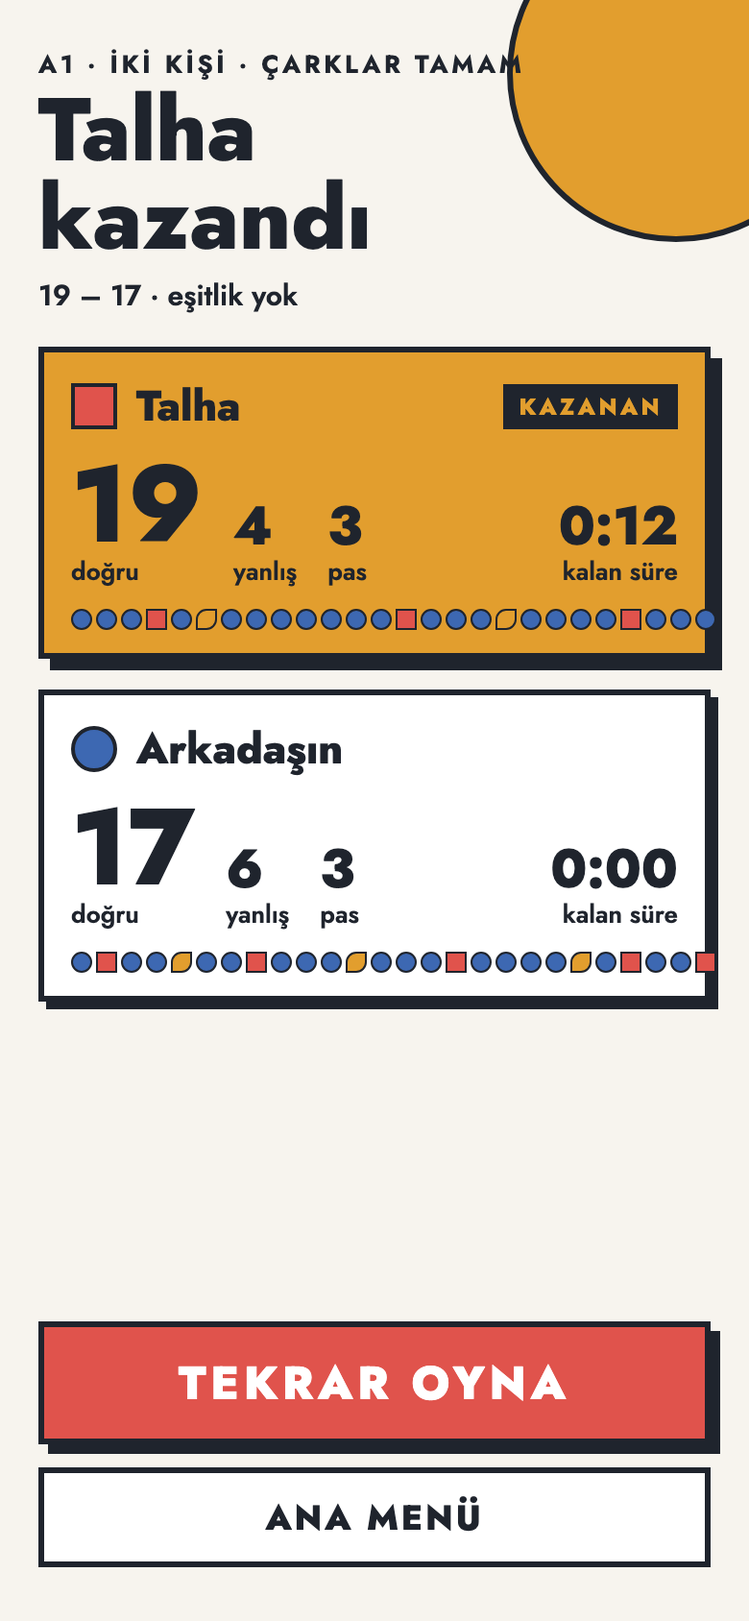
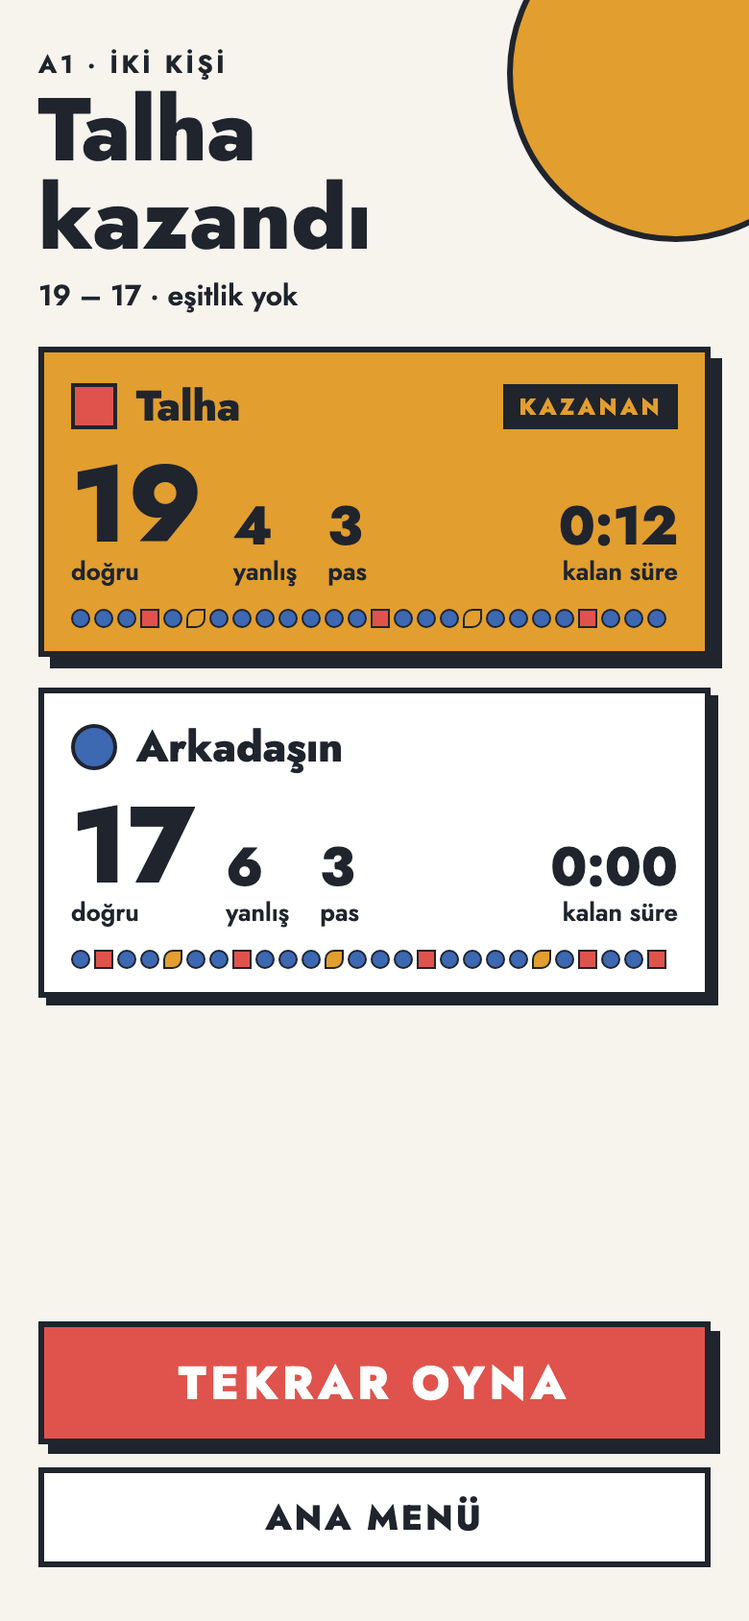
docs(design): fit the duel result outcome strips

diff --git a/docs/design/screens/20-duel-result.html b/docs/design/screens/20-duel-result.html
@@ -7,20 +7,20 @@
 body{margin:0}</style></head><body>
 <div style="position:relative;width:390px;height:844px;box-sizing:border-box;padding:24px 20px 28px;background:#F7F4EE;color:#1F242D;font-family:Jost,sans-serif;display:flex;flex-direction:column;gap:16px;overflow:hidden">
 <div aria-hidden="true" style="position:absolute;right:-50px;top:-50px;width:170px;height:170px;border-radius:50%;background:#E29E2E;border:3px solid #1F242D"></div>
-<div style="position:relative;display:flex;flex-direction:column;gap:2px"><span style="font-weight:700;font-size:13px;letter-spacing:.14em;">A1 · İKİ KİŞİ · ÇARKLAR TAMAM</span><span style="font-weight:800;font-size:46px;line-height:1">Talha<br>kazandı</span>
+<div style="position:relative;display:flex;flex-direction:column;gap:2px"><span style="font-weight:700;font-size:13px;letter-spacing:.14em;">A1 · İKİ KİŞİ</span><span style="font-weight:800;font-size:46px;line-height:1">Talha<br>kazandı</span>
 <span style="font-weight:600;font-size:15px;margin-top:4px">19 – 17 · eşitlik yok</span></div>
 <div style="position:relative;border:3px solid #1F242D;background:#E29E2E;box-shadow:6px 6px 0 #1F242D;padding:12px 14px;display:flex;flex-direction:column;gap:10px">
  <div style="display:flex;align-items:center;gap:10px"><div aria-hidden="true" style="width:24px;height:24px;flex-shrink:0;box-sizing:border-box;border-radius:0;background:#E0534C;border:2px solid #1F242D"></div><span style="font-weight:800;font-size:22px;flex:1">Talha</span><span style="font-weight:800;font-size:12px;letter-spacing:.14em;background:#1F242D;color:#E29E2E;padding:3px 8px">KAZANAN</span></div>
  <div style="display:flex;align-items:flex-end;gap:16px"><div style="display:flex;flex-direction:column"><span style="font-weight:800;font-size:56px;line-height:.9">19</span><span style="font-weight:600;font-size:13px">doğru</span></div>
  <div style="display:flex;flex-direction:column"><span style="font-weight:800;font-size:28px;line-height:1">4</span><span style="font-weight:600;font-size:13px">yanlış</span></div>
  <div style="display:flex;flex-direction:column"><span style="font-weight:800;font-size:28px;line-height:1">3</span><span style="font-weight:600;font-size:13px">pas</span></div>
- <div style="display:flex;flex-direction:column;margin-left:auto;align-items:flex-end"><span style="font-weight:800;font-size:28px;line-height:1">0:12</span><span style="font-weight:600;font-size:13px">kalan süre</span></div></div><div style="display:flex;gap:2px;flex-wrap:nowrap"><div aria-hidden="true" style="width:11px;height:11px;flex-shrink:0;box-sizing:border-box;border-radius:50%;background:#3D68B2;border:1px solid #1F242D"></div><div aria-hidden="true" style="width:11px;height:11px;flex-shrink:0;box-sizing:border-box;border-radius:50%;background:#3D68B2;border:1px solid #1F242D"></div><div aria-hidden="true" style="width:11px;height:11px;flex-shrink:0;box-sizing:border-box;border-radius:50%;background:#3D68B2;border:1px solid #1F242D"></div><div aria-hidden="true" style="width:11px;height:11px;flex-shrink:0;box-sizing:border-box;border-radius:0;background:#E0534C;border:1px solid #1F242D"></div><div aria-hidden="true" style="width:11px;height:11px;flex-shrink:0;box-sizing:border-box;border-radius:50%;background:#3D68B2;border:1px solid #1F242D"></div><div aria-hidden="true" style="width:11px;height:11px;flex-shrink:0;box-sizing:border-box;border-radius:50% 0 50% 0;background:#E29E2E;border:1px solid #1F242D"></div><div aria-hidden="true" style="width:11px;height:11px;flex-shrink:0;box-sizing:border-box;border-radius:50%;background:#3D68B2;border:1px solid #1F242D"></div><div aria-hidden="true" style="width:11px;height:11px;flex-shrink:0;box-sizing:border-box;border-radius:50%;background:#3D68B2;border:1px solid #1F242D"></div><div aria-hidden="true" style="width:11px;height:11px;flex-shrink:0;box-sizing:border-box;border-radius:50%;background:#3D68B2;border:1px solid #1F242D"></div><div aria-hidden="true" style="width:11px;height:11px;flex-shrink:0;box-sizing:border-box;border-radius:50%;background:#3D68B2;border:1px solid #1F242D"></div><div aria-hidden="true" style="width:11px;height:11px;flex-shrink:0;box-sizing:border-box;border-radius:50%;background:#3D68B2;border:1px solid #1F242D"></div><div aria-hidden="true" style="width:11px;height:11px;flex-shrink:0;box-sizing:border-box;border-radius:50%;background:#3D68B2;border:1px solid #1F242D"></div><div aria-hidden="true" style="width:11px;height:11px;flex-shrink:0;box-sizing:border-box;border-radius:50%;background:#3D68B2;border:1px solid #1F242D"></div><div aria-hidden="true" style="width:11px;height:11px;flex-shrink:0;box-sizing:border-box;border-radius:0;background:#E0534C;border:1px solid #1F242D"></div><div aria-hidden="true" style="width:11px;height:11px;flex-shrink:0;box-sizing:border-box;border-radius:50%;background:#3D68B2;border:1px solid #1F242D"></div><div aria-hidden="true" style="width:11px;height:11px;flex-shrink:0;box-sizing:border-box;border-radius:50%;background:#3D68B2;border:1px solid #1F242D"></div><div aria-hidden="true" style="width:11px;height:11px;flex-shrink:0;box-sizing:border-box;border-radius:50%;background:#3D68B2;border:1px solid #1F242D"></div><div aria-hidden="true" style="width:11px;height:11px;flex-shrink:0;box-sizing:border-box;border-radius:50% 0 50% 0;background:#E29E2E;border:1px solid #1F242D"></div><div aria-hidden="true" style="width:11px;height:11px;flex-shrink:0;box-sizing:border-box;border-radius:50%;background:#3D68B2;border:1px solid #1F242D"></div><div aria-hidden="true" style="width:11px;height:11px;flex-shrink:0;box-sizing:border-box;border-radius:50%;background:#3D68B2;border:1px solid #1F242D"></div><div aria-hidden="true" style="width:11px;height:11px;flex-shrink:0;box-sizing:border-box;border-radius:50%;background:#3D68B2;border:1px solid #1F242D"></div><div aria-hidden="true" style="width:11px;height:11px;flex-shrink:0;box-sizing:border-box;border-radius:50%;background:#3D68B2;border:1px solid #1F242D"></div><div aria-hidden="true" style="width:11px;height:11px;flex-shrink:0;box-sizing:border-box;border-radius:0;background:#E0534C;border:1px solid #1F242D"></div><div aria-hidden="true" style="width:11px;height:11px;flex-shrink:0;box-sizing:border-box;border-radius:50%;background:#3D68B2;border:1px solid #1F242D"></div><div aria-hidden="true" style="width:11px;height:11px;flex-shrink:0;box-sizing:border-box;border-radius:50%;background:#3D68B2;border:1px solid #1F242D"></div><div aria-hidden="true" style="width:11px;height:11px;flex-shrink:0;box-sizing:border-box;border-radius:50%;background:#3D68B2;border:1px solid #1F242D"></div></div></div>
+ <div style="display:flex;flex-direction:column;margin-left:auto;align-items:flex-end"><span style="font-weight:800;font-size:28px;line-height:1">0:12</span><span style="font-weight:600;font-size:13px">kalan süre</span></div></div><div style="display:flex;gap:2px;flex-wrap:nowrap"><div aria-hidden="true" style="width:10px;height:10px;flex-shrink:0;box-sizing:border-box;border-radius:50%;background:#3D68B2;border:1px solid #1F242D"></div><div aria-hidden="true" style="width:10px;height:10px;flex-shrink:0;box-sizing:border-box;border-radius:50%;background:#3D68B2;border:1px solid #1F242D"></div><div aria-hidden="true" style="width:10px;height:10px;flex-shrink:0;box-sizing:border-box;border-radius:50%;background:#3D68B2;border:1px solid #1F242D"></div><div aria-hidden="true" style="width:10px;height:10px;flex-shrink:0;box-sizing:border-box;border-radius:0;background:#E0534C;border:1px solid #1F242D"></div><div aria-hidden="true" style="width:10px;height:10px;flex-shrink:0;box-sizing:border-box;border-radius:50%;background:#3D68B2;border:1px solid #1F242D"></div><div aria-hidden="true" style="width:10px;height:10px;flex-shrink:0;box-sizing:border-box;border-radius:50% 0 50% 0;background:#E29E2E;border:1px solid #1F242D"></div><div aria-hidden="true" style="width:10px;height:10px;flex-shrink:0;box-sizing:border-box;border-radius:50%;background:#3D68B2;border:1px solid #1F242D"></div><div aria-hidden="true" style="width:10px;height:10px;flex-shrink:0;box-sizing:border-box;border-radius:50%;background:#3D68B2;border:1px solid #1F242D"></div><div aria-hidden="true" style="width:10px;height:10px;flex-shrink:0;box-sizing:border-box;border-radius:50%;background:#3D68B2;border:1px solid #1F242D"></div><div aria-hidden="true" style="width:10px;height:10px;flex-shrink:0;box-sizing:border-box;border-radius:50%;background:#3D68B2;border:1px solid #1F242D"></div><div aria-hidden="true" style="width:10px;height:10px;flex-shrink:0;box-sizing:border-box;border-radius:50%;background:#3D68B2;border:1px solid #1F242D"></div><div aria-hidden="true" style="width:10px;height:10px;flex-shrink:0;box-sizing:border-box;border-radius:50%;background:#3D68B2;border:1px solid #1F242D"></div><div aria-hidden="true" style="width:10px;height:10px;flex-shrink:0;box-sizing:border-box;border-radius:50%;background:#3D68B2;border:1px solid #1F242D"></div><div aria-hidden="true" style="width:10px;height:10px;flex-shrink:0;box-sizing:border-box;border-radius:0;background:#E0534C;border:1px solid #1F242D"></div><div aria-hidden="true" style="width:10px;height:10px;flex-shrink:0;box-sizing:border-box;border-radius:50%;background:#3D68B2;border:1px solid #1F242D"></div><div aria-hidden="true" style="width:10px;height:10px;flex-shrink:0;box-sizing:border-box;border-radius:50%;background:#3D68B2;border:1px solid #1F242D"></div><div aria-hidden="true" style="width:10px;height:10px;flex-shrink:0;box-sizing:border-box;border-radius:50%;background:#3D68B2;border:1px solid #1F242D"></div><div aria-hidden="true" style="width:10px;height:10px;flex-shrink:0;box-sizing:border-box;border-radius:50% 0 50% 0;background:#E29E2E;border:1px solid #1F242D"></div><div aria-hidden="true" style="width:10px;height:10px;flex-shrink:0;box-sizing:border-box;border-radius:50%;background:#3D68B2;border:1px solid #1F242D"></div><div aria-hidden="true" style="width:10px;height:10px;flex-shrink:0;box-sizing:border-box;border-radius:50%;background:#3D68B2;border:1px solid #1F242D"></div><div aria-hidden="true" style="width:10px;height:10px;flex-shrink:0;box-sizing:border-box;border-radius:50%;background:#3D68B2;border:1px solid #1F242D"></div><div aria-hidden="true" style="width:10px;height:10px;flex-shrink:0;box-sizing:border-box;border-radius:50%;background:#3D68B2;border:1px solid #1F242D"></div><div aria-hidden="true" style="width:10px;height:10px;flex-shrink:0;box-sizing:border-box;border-radius:0;background:#E0534C;border:1px solid #1F242D"></div><div aria-hidden="true" style="width:10px;height:10px;flex-shrink:0;box-sizing:border-box;border-radius:50%;background:#3D68B2;border:1px solid #1F242D"></div><div aria-hidden="true" style="width:10px;height:10px;flex-shrink:0;box-sizing:border-box;border-radius:50%;background:#3D68B2;border:1px solid #1F242D"></div><div aria-hidden="true" style="width:10px;height:10px;flex-shrink:0;box-sizing:border-box;border-radius:50%;background:#3D68B2;border:1px solid #1F242D"></div></div></div>
 <div style="position:relative;border:3px solid #1F242D;background:#fff;box-shadow:4px 4px 0 #1F242D;padding:12px 14px;display:flex;flex-direction:column;gap:10px">
  <div style="display:flex;align-items:center;gap:10px"><div aria-hidden="true" style="width:24px;height:24px;flex-shrink:0;box-sizing:border-box;border-radius:50%;background:#3D68B2;border:2px solid #1F242D"></div><span style="font-weight:800;font-size:22px;flex:1">Arkadaşın</span></div>
  <div style="display:flex;align-items:flex-end;gap:16px"><div style="display:flex;flex-direction:column"><span style="font-weight:800;font-size:56px;line-height:.9">17</span><span style="font-weight:600;font-size:13px">doğru</span></div>
  <div style="display:flex;flex-direction:column"><span style="font-weight:800;font-size:28px;line-height:1">6</span><span style="font-weight:600;font-size:13px">yanlış</span></div>
  <div style="display:flex;flex-direction:column"><span style="font-weight:800;font-size:28px;line-height:1">3</span><span style="font-weight:600;font-size:13px">pas</span></div>
- <div style="display:flex;flex-direction:column;margin-left:auto;align-items:flex-end"><span style="font-weight:800;font-size:28px;line-height:1">0:00</span><span style="font-weight:600;font-size:13px">kalan süre</span></div></div><div style="display:flex;gap:2px;flex-wrap:nowrap"><div aria-hidden="true" style="width:11px;height:11px;flex-shrink:0;box-sizing:border-box;border-radius:50%;background:#3D68B2;border:1px solid #1F242D"></div><div aria-hidden="true" style="width:11px;height:11px;flex-shrink:0;box-sizing:border-box;border-radius:0;background:#E0534C;border:1px solid #1F242D"></div><div aria-hidden="true" style="width:11px;height:11px;flex-shrink:0;box-sizing:border-box;border-radius:50%;background:#3D68B2;border:1px solid #1F242D"></div><div aria-hidden="true" style="width:11px;height:11px;flex-shrink:0;box-sizing:border-box;border-radius:50%;background:#3D68B2;border:1px solid #1F242D"></div><div aria-hidden="true" style="width:11px;height:11px;flex-shrink:0;box-sizing:border-box;border-radius:50% 0 50% 0;background:#E29E2E;border:1px solid #1F242D"></div><div aria-hidden="true" style="width:11px;height:11px;flex-shrink:0;box-sizing:border-box;border-radius:50%;background:#3D68B2;border:1px solid #1F242D"></div><div aria-hidden="true" style="width:11px;height:11px;flex-shrink:0;box-sizing:border-box;border-radius:50%;background:#3D68B2;border:1px solid #1F242D"></div><div aria-hidden="true" style="width:11px;height:11px;flex-shrink:0;box-sizing:border-box;border-radius:0;background:#E0534C;border:1px solid #1F242D"></div><div aria-hidden="true" style="width:11px;height:11px;flex-shrink:0;box-sizing:border-box;border-radius:50%;background:#3D68B2;border:1px solid #1F242D"></div><div aria-hidden="true" style="width:11px;height:11px;flex-shrink:0;box-sizing:border-box;border-radius:50%;background:#3D68B2;border:1px solid #1F242D"></div><div aria-hidden="true" style="width:11px;height:11px;flex-shrink:0;box-sizing:border-box;border-radius:50%;background:#3D68B2;border:1px solid #1F242D"></div><div aria-hidden="true" style="width:11px;height:11px;flex-shrink:0;box-sizing:border-box;border-radius:50% 0 50% 0;background:#E29E2E;border:1px solid #1F242D"></div><div aria-hidden="true" style="width:11px;height:11px;flex-shrink:0;box-sizing:border-box;border-radius:50%;background:#3D68B2;border:1px solid #1F242D"></div><div aria-hidden="true" style="width:11px;height:11px;flex-shrink:0;box-sizing:border-box;border-radius:50%;background:#3D68B2;border:1px solid #1F242D"></div><div aria-hidden="true" style="width:11px;height:11px;flex-shrink:0;box-sizing:border-box;border-radius:50%;background:#3D68B2;border:1px solid #1F242D"></div><div aria-hidden="true" style="width:11px;height:11px;flex-shrink:0;box-sizing:border-box;border-radius:0;background:#E0534C;border:1px solid #1F242D"></div><div aria-hidden="true" style="width:11px;height:11px;flex-shrink:0;box-sizing:border-box;border-radius:50%;background:#3D68B2;border:1px solid #1F242D"></div><div aria-hidden="true" style="width:11px;height:11px;flex-shrink:0;box-sizing:border-box;border-radius:50%;background:#3D68B2;border:1px solid #1F242D"></div><div aria-hidden="true" style="width:11px;height:11px;flex-shrink:0;box-sizing:border-box;border-radius:50%;background:#3D68B2;border:1px solid #1F242D"></div><div aria-hidden="true" style="width:11px;height:11px;flex-shrink:0;box-sizing:border-box;border-radius:50%;background:#3D68B2;border:1px solid #1F242D"></div><div aria-hidden="true" style="width:11px;height:11px;flex-shrink:0;box-sizing:border-box;border-radius:50% 0 50% 0;background:#E29E2E;border:1px solid #1F242D"></div><div aria-hidden="true" style="width:11px;height:11px;flex-shrink:0;box-sizing:border-box;border-radius:50%;background:#3D68B2;border:1px solid #1F242D"></div><div aria-hidden="true" style="width:11px;height:11px;flex-shrink:0;box-sizing:border-box;border-radius:0;background:#E0534C;border:1px solid #1F242D"></div><div aria-hidden="true" style="width:11px;height:11px;flex-shrink:0;box-sizing:border-box;border-radius:50%;background:#3D68B2;border:1px solid #1F242D"></div><div aria-hidden="true" style="width:11px;height:11px;flex-shrink:0;box-sizing:border-box;border-radius:50%;background:#3D68B2;border:1px solid #1F242D"></div><div aria-hidden="true" style="width:11px;height:11px;flex-shrink:0;box-sizing:border-box;border-radius:0;background:#E0534C;border:1px solid #1F242D"></div></div></div>
+ <div style="display:flex;flex-direction:column;margin-left:auto;align-items:flex-end"><span style="font-weight:800;font-size:28px;line-height:1">0:00</span><span style="font-weight:600;font-size:13px">kalan süre</span></div></div><div style="display:flex;gap:2px;flex-wrap:nowrap"><div aria-hidden="true" style="width:10px;height:10px;flex-shrink:0;box-sizing:border-box;border-radius:50%;background:#3D68B2;border:1px solid #1F242D"></div><div aria-hidden="true" style="width:10px;height:10px;flex-shrink:0;box-sizing:border-box;border-radius:0;background:#E0534C;border:1px solid #1F242D"></div><div aria-hidden="true" style="width:10px;height:10px;flex-shrink:0;box-sizing:border-box;border-radius:50%;background:#3D68B2;border:1px solid #1F242D"></div><div aria-hidden="true" style="width:10px;height:10px;flex-shrink:0;box-sizing:border-box;border-radius:50%;background:#3D68B2;border:1px solid #1F242D"></div><div aria-hidden="true" style="width:10px;height:10px;flex-shrink:0;box-sizing:border-box;border-radius:50% 0 50% 0;background:#E29E2E;border:1px solid #1F242D"></div><div aria-hidden="true" style="width:10px;height:10px;flex-shrink:0;box-sizing:border-box;border-radius:50%;background:#3D68B2;border:1px solid #1F242D"></div><div aria-hidden="true" style="width:10px;height:10px;flex-shrink:0;box-sizing:border-box;border-radius:50%;background:#3D68B2;border:1px solid #1F242D"></div><div aria-hidden="true" style="width:10px;height:10px;flex-shrink:0;box-sizing:border-box;border-radius:0;background:#E0534C;border:1px solid #1F242D"></div><div aria-hidden="true" style="width:10px;height:10px;flex-shrink:0;box-sizing:border-box;border-radius:50%;background:#3D68B2;border:1px solid #1F242D"></div><div aria-hidden="true" style="width:10px;height:10px;flex-shrink:0;box-sizing:border-box;border-radius:50%;background:#3D68B2;border:1px solid #1F242D"></div><div aria-hidden="true" style="width:10px;height:10px;flex-shrink:0;box-sizing:border-box;border-radius:50%;background:#3D68B2;border:1px solid #1F242D"></div><div aria-hidden="true" style="width:10px;height:10px;flex-shrink:0;box-sizing:border-box;border-radius:50% 0 50% 0;background:#E29E2E;border:1px solid #1F242D"></div><div aria-hidden="true" style="width:10px;height:10px;flex-shrink:0;box-sizing:border-box;border-radius:50%;background:#3D68B2;border:1px solid #1F242D"></div><div aria-hidden="true" style="width:10px;height:10px;flex-shrink:0;box-sizing:border-box;border-radius:50%;background:#3D68B2;border:1px solid #1F242D"></div><div aria-hidden="true" style="width:10px;height:10px;flex-shrink:0;box-sizing:border-box;border-radius:50%;background:#3D68B2;border:1px solid #1F242D"></div><div aria-hidden="true" style="width:10px;height:10px;flex-shrink:0;box-sizing:border-box;border-radius:0;background:#E0534C;border:1px solid #1F242D"></div><div aria-hidden="true" style="width:10px;height:10px;flex-shrink:0;box-sizing:border-box;border-radius:50%;background:#3D68B2;border:1px solid #1F242D"></div><div aria-hidden="true" style="width:10px;height:10px;flex-shrink:0;box-sizing:border-box;border-radius:50%;background:#3D68B2;border:1px solid #1F242D"></div><div aria-hidden="true" style="width:10px;height:10px;flex-shrink:0;box-sizing:border-box;border-radius:50%;background:#3D68B2;border:1px solid #1F242D"></div><div aria-hidden="true" style="width:10px;height:10px;flex-shrink:0;box-sizing:border-box;border-radius:50%;background:#3D68B2;border:1px solid #1F242D"></div><div aria-hidden="true" style="width:10px;height:10px;flex-shrink:0;box-sizing:border-box;border-radius:50% 0 50% 0;background:#E29E2E;border:1px solid #1F242D"></div><div aria-hidden="true" style="width:10px;height:10px;flex-shrink:0;box-sizing:border-box;border-radius:50%;background:#3D68B2;border:1px solid #1F242D"></div><div aria-hidden="true" style="width:10px;height:10px;flex-shrink:0;box-sizing:border-box;border-radius:0;background:#E0534C;border:1px solid #1F242D"></div><div aria-hidden="true" style="width:10px;height:10px;flex-shrink:0;box-sizing:border-box;border-radius:50%;background:#3D68B2;border:1px solid #1F242D"></div><div aria-hidden="true" style="width:10px;height:10px;flex-shrink:0;box-sizing:border-box;border-radius:50%;background:#3D68B2;border:1px solid #1F242D"></div><div aria-hidden="true" style="width:10px;height:10px;flex-shrink:0;box-sizing:border-box;border-radius:0;background:#E0534C;border:1px solid #1F242D"></div></div></div>
 <div style="position:relative;display:flex;flex-direction:column;gap:12px;margin-top:auto"><button style="height:64px;width:100%;background:#E0534C;color:#fff;border:3px solid #1F242D;box-shadow:5px 5px 0 #1F242D;font:800 24px Jost;letter-spacing:.1em;box-sizing:border-box">TEKRAR OYNA</button>
 <button style="height:52px;background:#fff;color:#1F242D;border:3px solid #1F242D;font:800 18px Jost;letter-spacing:.08em;box-sizing:border-box">ANA MENÜ</button></div>
 </div></body></html>

diff --git a/docs/design/source/20-duel-result.dc.html b/docs/design/source/20-duel-result.dc.html
@@ -7,20 +7,20 @@
 body{margin:0}</style></head><body>
 <div style="position:relative;width:390px;height:844px;box-sizing:border-box;padding:24px 20px 28px;background:#F7F4EE;color:#1F242D;font-family:Jost,sans-serif;display:flex;flex-direction:column;gap:16px;overflow:hidden">
 <div aria-hidden="true" style="position:absolute;right:-50px;top:-50px;width:170px;height:170px;border-radius:50%;background:#E29E2E;border:3px solid #1F242D"></div>
-<div style="position:relative;display:flex;flex-direction:column;gap:2px"><span style="font-weight:700;font-size:13px;letter-spacing:.14em;">A1 · İKİ KİŞİ · ÇARKLAR TAMAM</span><span style="font-weight:800;font-size:46px;line-height:1">Talha<br>kazandı</span>
+<div style="position:relative;display:flex;flex-direction:column;gap:2px"><span style="font-weight:700;font-size:13px;letter-spacing:.14em;">A1 · İKİ KİŞİ</span><span style="font-weight:800;font-size:46px;line-height:1">Talha<br>kazandı</span>
 <span style="font-weight:600;font-size:15px;margin-top:4px">19 – 17 · eşitlik yok</span></div>
 <div style="position:relative;border:3px solid #1F242D;background:#E29E2E;box-shadow:6px 6px 0 #1F242D;padding:12px 14px;display:flex;flex-direction:column;gap:10px">
  <div style="display:flex;align-items:center;gap:10px"><div aria-hidden="true" style="width:24px;height:24px;flex-shrink:0;box-sizing:border-box;border-radius:0;background:#E0534C;border:2px solid #1F242D"></div><span style="font-weight:800;font-size:22px;flex:1">Talha</span><span style="font-weight:800;font-size:12px;letter-spacing:.14em;background:#1F242D;color:#E29E2E;padding:3px 8px">KAZANAN</span></div>
  <div style="display:flex;align-items:flex-end;gap:16px"><div style="display:flex;flex-direction:column"><span style="font-weight:800;font-size:56px;line-height:.9">19</span><span style="font-weight:600;font-size:13px">doğru</span></div>
  <div style="display:flex;flex-direction:column"><span style="font-weight:800;font-size:28px;line-height:1">4</span><span style="font-weight:600;font-size:13px">yanlış</span></div>
  <div style="display:flex;flex-direction:column"><span style="font-weight:800;font-size:28px;line-height:1">3</span><span style="font-weight:600;font-size:13px">pas</span></div>
- <div style="display:flex;flex-direction:column;margin-left:auto;align-items:flex-end"><span style="font-weight:800;font-size:28px;line-height:1">0:12</span><span style="font-weight:600;font-size:13px">kalan süre</span></div></div><div style="display:flex;gap:2px;flex-wrap:nowrap"><div aria-hidden="true" style="width:11px;height:11px;flex-shrink:0;box-sizing:border-box;border-radius:50%;background:#3D68B2;border:1px solid #1F242D"></div><div aria-hidden="true" style="width:11px;height:11px;flex-shrink:0;box-sizing:border-box;border-radius:50%;background:#3D68B2;border:1px solid #1F242D"></div><div aria-hidden="true" style="width:11px;height:11px;flex-shrink:0;box-sizing:border-box;border-radius:50%;background:#3D68B2;border:1px solid #1F242D"></div><div aria-hidden="true" style="width:11px;height:11px;flex-shrink:0;box-sizing:border-box;border-radius:0;background:#E0534C;border:1px solid #1F242D"></div><div aria-hidden="true" style="width:11px;height:11px;flex-shrink:0;box-sizing:border-box;border-radius:50%;background:#3D68B2;border:1px solid #1F242D"></div><div aria-hidden="true" style="width:11px;height:11px;flex-shrink:0;box-sizing:border-box;border-radius:50% 0 50% 0;background:#E29E2E;border:1px solid #1F242D"></div><div aria-hidden="true" style="width:11px;height:11px;flex-shrink:0;box-sizing:border-box;border-radius:50%;background:#3D68B2;border:1px solid #1F242D"></div><div aria-hidden="true" style="width:11px;height:11px;flex-shrink:0;box-sizing:border-box;border-radius:50%;background:#3D68B2;border:1px solid #1F242D"></div><div aria-hidden="true" style="width:11px;height:11px;flex-shrink:0;box-sizing:border-box;border-radius:50%;background:#3D68B2;border:1px solid #1F242D"></div><div aria-hidden="true" style="width:11px;height:11px;flex-shrink:0;box-sizing:border-box;border-radius:50%;background:#3D68B2;border:1px solid #1F242D"></div><div aria-hidden="true" style="width:11px;height:11px;flex-shrink:0;box-sizing:border-box;border-radius:50%;background:#3D68B2;border:1px solid #1F242D"></div><div aria-hidden="true" style="width:11px;height:11px;flex-shrink:0;box-sizing:border-box;border-radius:50%;background:#3D68B2;border:1px solid #1F242D"></div><div aria-hidden="true" style="width:11px;height:11px;flex-shrink:0;box-sizing:border-box;border-radius:50%;background:#3D68B2;border:1px solid #1F242D"></div><div aria-hidden="true" style="width:11px;height:11px;flex-shrink:0;box-sizing:border-box;border-radius:0;background:#E0534C;border:1px solid #1F242D"></div><div aria-hidden="true" style="width:11px;height:11px;flex-shrink:0;box-sizing:border-box;border-radius:50%;background:#3D68B2;border:1px solid #1F242D"></div><div aria-hidden="true" style="width:11px;height:11px;flex-shrink:0;box-sizing:border-box;border-radius:50%;background:#3D68B2;border:1px solid #1F242D"></div><div aria-hidden="true" style="width:11px;height:11px;flex-shrink:0;box-sizing:border-box;border-radius:50%;background:#3D68B2;border:1px solid #1F242D"></div><div aria-hidden="true" style="width:11px;height:11px;flex-shrink:0;box-sizing:border-box;border-radius:50% 0 50% 0;background:#E29E2E;border:1px solid #1F242D"></div><div aria-hidden="true" style="width:11px;height:11px;flex-shrink:0;box-sizing:border-box;border-radius:50%;background:#3D68B2;border:1px solid #1F242D"></div><div aria-hidden="true" style="width:11px;height:11px;flex-shrink:0;box-sizing:border-box;border-radius:50%;background:#3D68B2;border:1px solid #1F242D"></div><div aria-hidden="true" style="width:11px;height:11px;flex-shrink:0;box-sizing:border-box;border-radius:50%;background:#3D68B2;border:1px solid #1F242D"></div><div aria-hidden="true" style="width:11px;height:11px;flex-shrink:0;box-sizing:border-box;border-radius:50%;background:#3D68B2;border:1px solid #1F242D"></div><div aria-hidden="true" style="width:11px;height:11px;flex-shrink:0;box-sizing:border-box;border-radius:0;background:#E0534C;border:1px solid #1F242D"></div><div aria-hidden="true" style="width:11px;height:11px;flex-shrink:0;box-sizing:border-box;border-radius:50%;background:#3D68B2;border:1px solid #1F242D"></div><div aria-hidden="true" style="width:11px;height:11px;flex-shrink:0;box-sizing:border-box;border-radius:50%;background:#3D68B2;border:1px solid #1F242D"></div><div aria-hidden="true" style="width:11px;height:11px;flex-shrink:0;box-sizing:border-box;border-radius:50%;background:#3D68B2;border:1px solid #1F242D"></div></div></div>
+ <div style="display:flex;flex-direction:column;margin-left:auto;align-items:flex-end"><span style="font-weight:800;font-size:28px;line-height:1">0:12</span><span style="font-weight:600;font-size:13px">kalan süre</span></div></div><div style="display:flex;gap:2px;flex-wrap:nowrap"><div aria-hidden="true" style="width:10px;height:10px;flex-shrink:0;box-sizing:border-box;border-radius:50%;background:#3D68B2;border:1px solid #1F242D"></div><div aria-hidden="true" style="width:10px;height:10px;flex-shrink:0;box-sizing:border-box;border-radius:50%;background:#3D68B2;border:1px solid #1F242D"></div><div aria-hidden="true" style="width:10px;height:10px;flex-shrink:0;box-sizing:border-box;border-radius:50%;background:#3D68B2;border:1px solid #1F242D"></div><div aria-hidden="true" style="width:10px;height:10px;flex-shrink:0;box-sizing:border-box;border-radius:0;background:#E0534C;border:1px solid #1F242D"></div><div aria-hidden="true" style="width:10px;height:10px;flex-shrink:0;box-sizing:border-box;border-radius:50%;background:#3D68B2;border:1px solid #1F242D"></div><div aria-hidden="true" style="width:10px;height:10px;flex-shrink:0;box-sizing:border-box;border-radius:50% 0 50% 0;background:#E29E2E;border:1px solid #1F242D"></div><div aria-hidden="true" style="width:10px;height:10px;flex-shrink:0;box-sizing:border-box;border-radius:50%;background:#3D68B2;border:1px solid #1F242D"></div><div aria-hidden="true" style="width:10px;height:10px;flex-shrink:0;box-sizing:border-box;border-radius:50%;background:#3D68B2;border:1px solid #1F242D"></div><div aria-hidden="true" style="width:10px;height:10px;flex-shrink:0;box-sizing:border-box;border-radius:50%;background:#3D68B2;border:1px solid #1F242D"></div><div aria-hidden="true" style="width:10px;height:10px;flex-shrink:0;box-sizing:border-box;border-radius:50%;background:#3D68B2;border:1px solid #1F242D"></div><div aria-hidden="true" style="width:10px;height:10px;flex-shrink:0;box-sizing:border-box;border-radius:50%;background:#3D68B2;border:1px solid #1F242D"></div><div aria-hidden="true" style="width:10px;height:10px;flex-shrink:0;box-sizing:border-box;border-radius:50%;background:#3D68B2;border:1px solid #1F242D"></div><div aria-hidden="true" style="width:10px;height:10px;flex-shrink:0;box-sizing:border-box;border-radius:50%;background:#3D68B2;border:1px solid #1F242D"></div><div aria-hidden="true" style="width:10px;height:10px;flex-shrink:0;box-sizing:border-box;border-radius:0;background:#E0534C;border:1px solid #1F242D"></div><div aria-hidden="true" style="width:10px;height:10px;flex-shrink:0;box-sizing:border-box;border-radius:50%;background:#3D68B2;border:1px solid #1F242D"></div><div aria-hidden="true" style="width:10px;height:10px;flex-shrink:0;box-sizing:border-box;border-radius:50%;background:#3D68B2;border:1px solid #1F242D"></div><div aria-hidden="true" style="width:10px;height:10px;flex-shrink:0;box-sizing:border-box;border-radius:50%;background:#3D68B2;border:1px solid #1F242D"></div><div aria-hidden="true" style="width:10px;height:10px;flex-shrink:0;box-sizing:border-box;border-radius:50% 0 50% 0;background:#E29E2E;border:1px solid #1F242D"></div><div aria-hidden="true" style="width:10px;height:10px;flex-shrink:0;box-sizing:border-box;border-radius:50%;background:#3D68B2;border:1px solid #1F242D"></div><div aria-hidden="true" style="width:10px;height:10px;flex-shrink:0;box-sizing:border-box;border-radius:50%;background:#3D68B2;border:1px solid #1F242D"></div><div aria-hidden="true" style="width:10px;height:10px;flex-shrink:0;box-sizing:border-box;border-radius:50%;background:#3D68B2;border:1px solid #1F242D"></div><div aria-hidden="true" style="width:10px;height:10px;flex-shrink:0;box-sizing:border-box;border-radius:50%;background:#3D68B2;border:1px solid #1F242D"></div><div aria-hidden="true" style="width:10px;height:10px;flex-shrink:0;box-sizing:border-box;border-radius:0;background:#E0534C;border:1px solid #1F242D"></div><div aria-hidden="true" style="width:10px;height:10px;flex-shrink:0;box-sizing:border-box;border-radius:50%;background:#3D68B2;border:1px solid #1F242D"></div><div aria-hidden="true" style="width:10px;height:10px;flex-shrink:0;box-sizing:border-box;border-radius:50%;background:#3D68B2;border:1px solid #1F242D"></div><div aria-hidden="true" style="width:10px;height:10px;flex-shrink:0;box-sizing:border-box;border-radius:50%;background:#3D68B2;border:1px solid #1F242D"></div></div></div>
 <div style="position:relative;border:3px solid #1F242D;background:#fff;box-shadow:4px 4px 0 #1F242D;padding:12px 14px;display:flex;flex-direction:column;gap:10px">
  <div style="display:flex;align-items:center;gap:10px"><div aria-hidden="true" style="width:24px;height:24px;flex-shrink:0;box-sizing:border-box;border-radius:50%;background:#3D68B2;border:2px solid #1F242D"></div><span style="font-weight:800;font-size:22px;flex:1">Arkadaşın</span></div>
  <div style="display:flex;align-items:flex-end;gap:16px"><div style="display:flex;flex-direction:column"><span style="font-weight:800;font-size:56px;line-height:.9">17</span><span style="font-weight:600;font-size:13px">doğru</span></div>
  <div style="display:flex;flex-direction:column"><span style="font-weight:800;font-size:28px;line-height:1">6</span><span style="font-weight:600;font-size:13px">yanlış</span></div>
  <div style="display:flex;flex-direction:column"><span style="font-weight:800;font-size:28px;line-height:1">3</span><span style="font-weight:600;font-size:13px">pas</span></div>
- <div style="display:flex;flex-direction:column;margin-left:auto;align-items:flex-end"><span style="font-weight:800;font-size:28px;line-height:1">0:00</span><span style="font-weight:600;font-size:13px">kalan süre</span></div></div><div style="display:flex;gap:2px;flex-wrap:nowrap"><div aria-hidden="true" style="width:11px;height:11px;flex-shrink:0;box-sizing:border-box;border-radius:50%;background:#3D68B2;border:1px solid #1F242D"></div><div aria-hidden="true" style="width:11px;height:11px;flex-shrink:0;box-sizing:border-box;border-radius:0;background:#E0534C;border:1px solid #1F242D"></div><div aria-hidden="true" style="width:11px;height:11px;flex-shrink:0;box-sizing:border-box;border-radius:50%;background:#3D68B2;border:1px solid #1F242D"></div><div aria-hidden="true" style="width:11px;height:11px;flex-shrink:0;box-sizing:border-box;border-radius:50%;background:#3D68B2;border:1px solid #1F242D"></div><div aria-hidden="true" style="width:11px;height:11px;flex-shrink:0;box-sizing:border-box;border-radius:50% 0 50% 0;background:#E29E2E;border:1px solid #1F242D"></div><div aria-hidden="true" style="width:11px;height:11px;flex-shrink:0;box-sizing:border-box;border-radius:50%;background:#3D68B2;border:1px solid #1F242D"></div><div aria-hidden="true" style="width:11px;height:11px;flex-shrink:0;box-sizing:border-box;border-radius:50%;background:#3D68B2;border:1px solid #1F242D"></div><div aria-hidden="true" style="width:11px;height:11px;flex-shrink:0;box-sizing:border-box;border-radius:0;background:#E0534C;border:1px solid #1F242D"></div><div aria-hidden="true" style="width:11px;height:11px;flex-shrink:0;box-sizing:border-box;border-radius:50%;background:#3D68B2;border:1px solid #1F242D"></div><div aria-hidden="true" style="width:11px;height:11px;flex-shrink:0;box-sizing:border-box;border-radius:50%;background:#3D68B2;border:1px solid #1F242D"></div><div aria-hidden="true" style="width:11px;height:11px;flex-shrink:0;box-sizing:border-box;border-radius:50%;background:#3D68B2;border:1px solid #1F242D"></div><div aria-hidden="true" style="width:11px;height:11px;flex-shrink:0;box-sizing:border-box;border-radius:50% 0 50% 0;background:#E29E2E;border:1px solid #1F242D"></div><div aria-hidden="true" style="width:11px;height:11px;flex-shrink:0;box-sizing:border-box;border-radius:50%;background:#3D68B2;border:1px solid #1F242D"></div><div aria-hidden="true" style="width:11px;height:11px;flex-shrink:0;box-sizing:border-box;border-radius:50%;background:#3D68B2;border:1px solid #1F242D"></div><div aria-hidden="true" style="width:11px;height:11px;flex-shrink:0;box-sizing:border-box;border-radius:50%;background:#3D68B2;border:1px solid #1F242D"></div><div aria-hidden="true" style="width:11px;height:11px;flex-shrink:0;box-sizing:border-box;border-radius:0;background:#E0534C;border:1px solid #1F242D"></div><div aria-hidden="true" style="width:11px;height:11px;flex-shrink:0;box-sizing:border-box;border-radius:50%;background:#3D68B2;border:1px solid #1F242D"></div><div aria-hidden="true" style="width:11px;height:11px;flex-shrink:0;box-sizing:border-box;border-radius:50%;background:#3D68B2;border:1px solid #1F242D"></div><div aria-hidden="true" style="width:11px;height:11px;flex-shrink:0;box-sizing:border-box;border-radius:50%;background:#3D68B2;border:1px solid #1F242D"></div><div aria-hidden="true" style="width:11px;height:11px;flex-shrink:0;box-sizing:border-box;border-radius:50%;background:#3D68B2;border:1px solid #1F242D"></div><div aria-hidden="true" style="width:11px;height:11px;flex-shrink:0;box-sizing:border-box;border-radius:50% 0 50% 0;background:#E29E2E;border:1px solid #1F242D"></div><div aria-hidden="true" style="width:11px;height:11px;flex-shrink:0;box-sizing:border-box;border-radius:50%;background:#3D68B2;border:1px solid #1F242D"></div><div aria-hidden="true" style="width:11px;height:11px;flex-shrink:0;box-sizing:border-box;border-radius:0;background:#E0534C;border:1px solid #1F242D"></div><div aria-hidden="true" style="width:11px;height:11px;flex-shrink:0;box-sizing:border-box;border-radius:50%;background:#3D68B2;border:1px solid #1F242D"></div><div aria-hidden="true" style="width:11px;height:11px;flex-shrink:0;box-sizing:border-box;border-radius:50%;background:#3D68B2;border:1px solid #1F242D"></div><div aria-hidden="true" style="width:11px;height:11px;flex-shrink:0;box-sizing:border-box;border-radius:0;background:#E0534C;border:1px solid #1F242D"></div></div></div>
+ <div style="display:flex;flex-direction:column;margin-left:auto;align-items:flex-end"><span style="font-weight:800;font-size:28px;line-height:1">0:00</span><span style="font-weight:600;font-size:13px">kalan süre</span></div></div><div style="display:flex;gap:2px;flex-wrap:nowrap"><div aria-hidden="true" style="width:10px;height:10px;flex-shrink:0;box-sizing:border-box;border-radius:50%;background:#3D68B2;border:1px solid #1F242D"></div><div aria-hidden="true" style="width:10px;height:10px;flex-shrink:0;box-sizing:border-box;border-radius:0;background:#E0534C;border:1px solid #1F242D"></div><div aria-hidden="true" style="width:10px;height:10px;flex-shrink:0;box-sizing:border-box;border-radius:50%;background:#3D68B2;border:1px solid #1F242D"></div><div aria-hidden="true" style="width:10px;height:10px;flex-shrink:0;box-sizing:border-box;border-radius:50%;background:#3D68B2;border:1px solid #1F242D"></div><div aria-hidden="true" style="width:10px;height:10px;flex-shrink:0;box-sizing:border-box;border-radius:50% 0 50% 0;background:#E29E2E;border:1px solid #1F242D"></div><div aria-hidden="true" style="width:10px;height:10px;flex-shrink:0;box-sizing:border-box;border-radius:50%;background:#3D68B2;border:1px solid #1F242D"></div><div aria-hidden="true" style="width:10px;height:10px;flex-shrink:0;box-sizing:border-box;border-radius:50%;background:#3D68B2;border:1px solid #1F242D"></div><div aria-hidden="true" style="width:10px;height:10px;flex-shrink:0;box-sizing:border-box;border-radius:0;background:#E0534C;border:1px solid #1F242D"></div><div aria-hidden="true" style="width:10px;height:10px;flex-shrink:0;box-sizing:border-box;border-radius:50%;background:#3D68B2;border:1px solid #1F242D"></div><div aria-hidden="true" style="width:10px;height:10px;flex-shrink:0;box-sizing:border-box;border-radius:50%;background:#3D68B2;border:1px solid #1F242D"></div><div aria-hidden="true" style="width:10px;height:10px;flex-shrink:0;box-sizing:border-box;border-radius:50%;background:#3D68B2;border:1px solid #1F242D"></div><div aria-hidden="true" style="width:10px;height:10px;flex-shrink:0;box-sizing:border-box;border-radius:50% 0 50% 0;background:#E29E2E;border:1px solid #1F242D"></div><div aria-hidden="true" style="width:10px;height:10px;flex-shrink:0;box-sizing:border-box;border-radius:50%;background:#3D68B2;border:1px solid #1F242D"></div><div aria-hidden="true" style="width:10px;height:10px;flex-shrink:0;box-sizing:border-box;border-radius:50%;background:#3D68B2;border:1px solid #1F242D"></div><div aria-hidden="true" style="width:10px;height:10px;flex-shrink:0;box-sizing:border-box;border-radius:50%;background:#3D68B2;border:1px solid #1F242D"></div><div aria-hidden="true" style="width:10px;height:10px;flex-shrink:0;box-sizing:border-box;border-radius:0;background:#E0534C;border:1px solid #1F242D"></div><div aria-hidden="true" style="width:10px;height:10px;flex-shrink:0;box-sizing:border-box;border-radius:50%;background:#3D68B2;border:1px solid #1F242D"></div><div aria-hidden="true" style="width:10px;height:10px;flex-shrink:0;box-sizing:border-box;border-radius:50%;background:#3D68B2;border:1px solid #1F242D"></div><div aria-hidden="true" style="width:10px;height:10px;flex-shrink:0;box-sizing:border-box;border-radius:50%;background:#3D68B2;border:1px solid #1F242D"></div><div aria-hidden="true" style="width:10px;height:10px;flex-shrink:0;box-sizing:border-box;border-radius:50%;background:#3D68B2;border:1px solid #1F242D"></div><div aria-hidden="true" style="width:10px;height:10px;flex-shrink:0;box-sizing:border-box;border-radius:50% 0 50% 0;background:#E29E2E;border:1px solid #1F242D"></div><div aria-hidden="true" style="width:10px;height:10px;flex-shrink:0;box-sizing:border-box;border-radius:50%;background:#3D68B2;border:1px solid #1F242D"></div><div aria-hidden="true" style="width:10px;height:10px;flex-shrink:0;box-sizing:border-box;border-radius:0;background:#E0534C;border:1px solid #1F242D"></div><div aria-hidden="true" style="width:10px;height:10px;flex-shrink:0;box-sizing:border-box;border-radius:50%;background:#3D68B2;border:1px solid #1F242D"></div><div aria-hidden="true" style="width:10px;height:10px;flex-shrink:0;box-sizing:border-box;border-radius:50%;background:#3D68B2;border:1px solid #1F242D"></div><div aria-hidden="true" style="width:10px;height:10px;flex-shrink:0;box-sizing:border-box;border-radius:0;background:#E0534C;border:1px solid #1F242D"></div></div></div>
 <div style="position:relative;display:flex;flex-direction:column;gap:12px;margin-top:auto"><button style="height:64px;width:100%;background:#E0534C;color:#fff;border:3px solid #1F242D;box-shadow:5px 5px 0 #1F242D;font:800 24px Jost;letter-spacing:.1em;box-sizing:border-box">TEKRAR OYNA</button>
 <button style="height:52px;background:#fff;color:#1F242D;border:3px solid #1F242D;font:800 18px Jost;letter-spacing:.08em;box-sizing:border-box">ANA MENÜ</button></div>
 </div></body></html>
